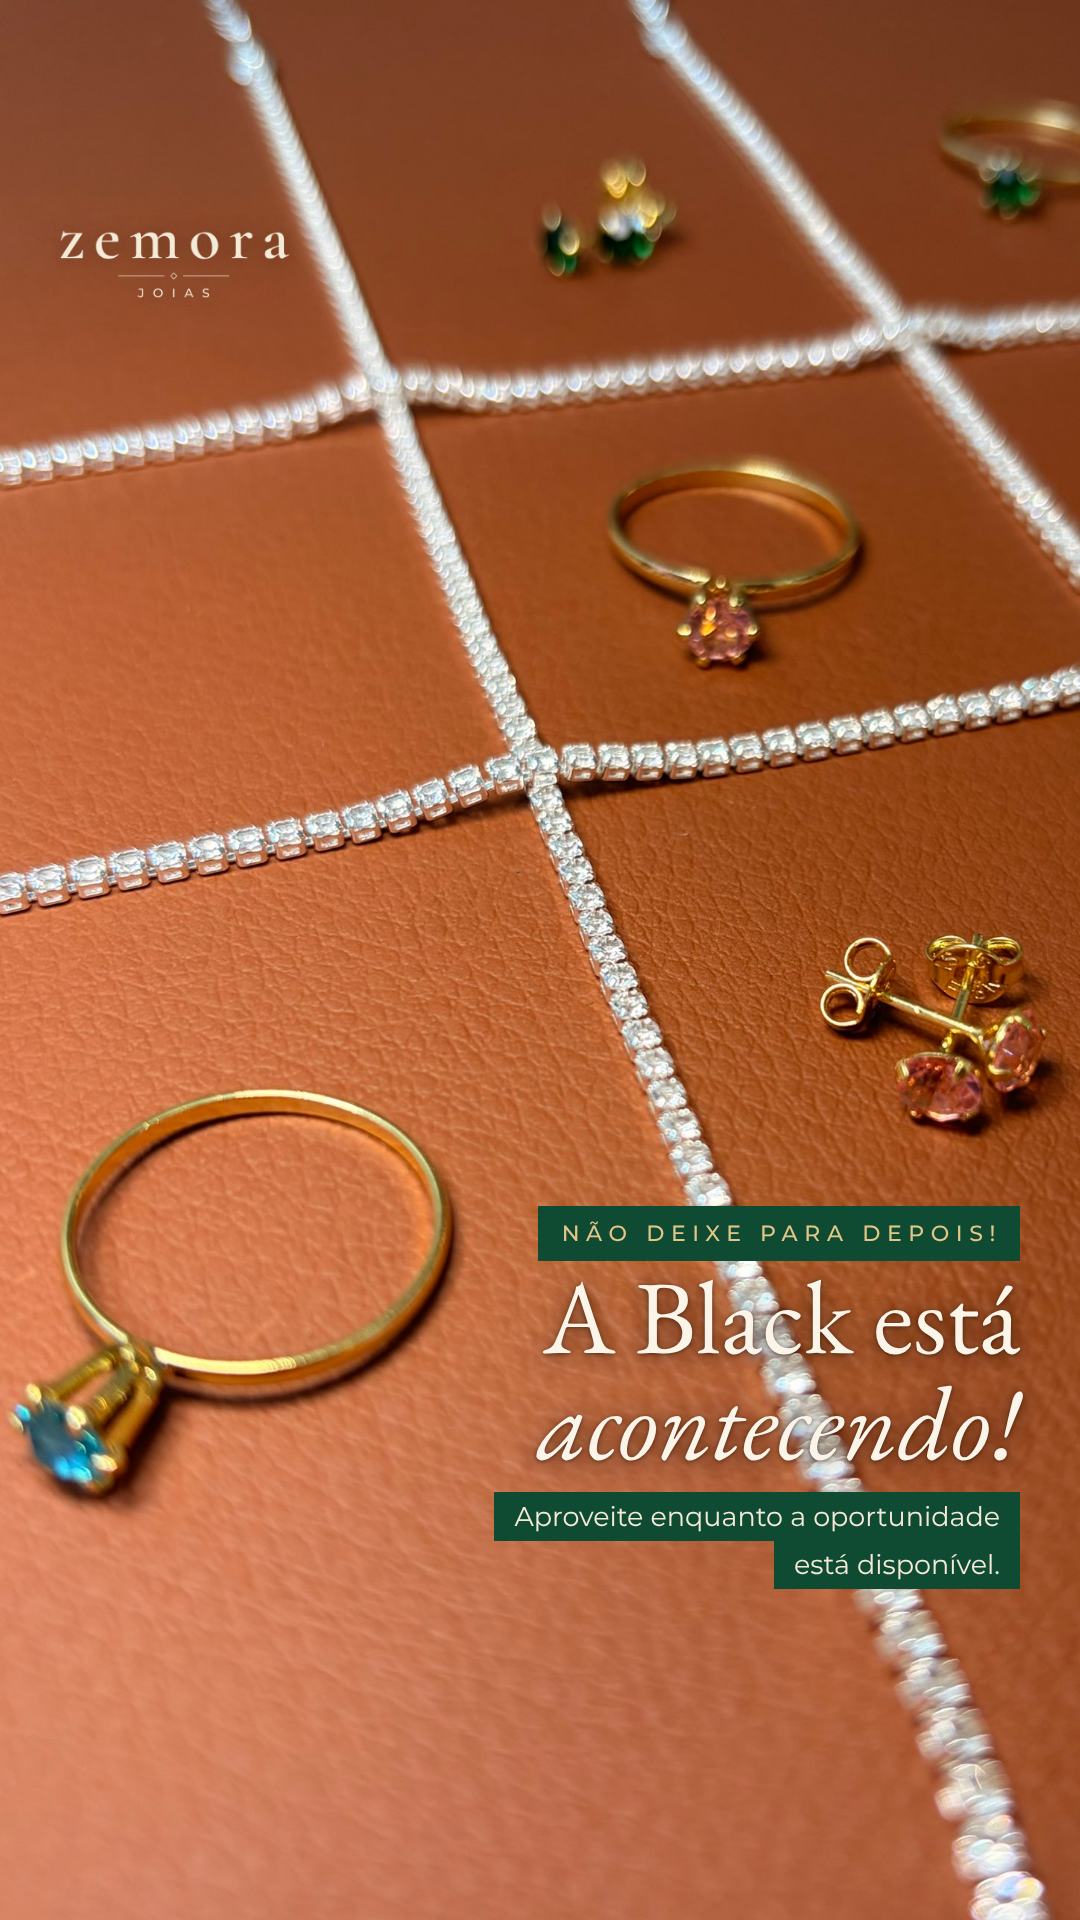
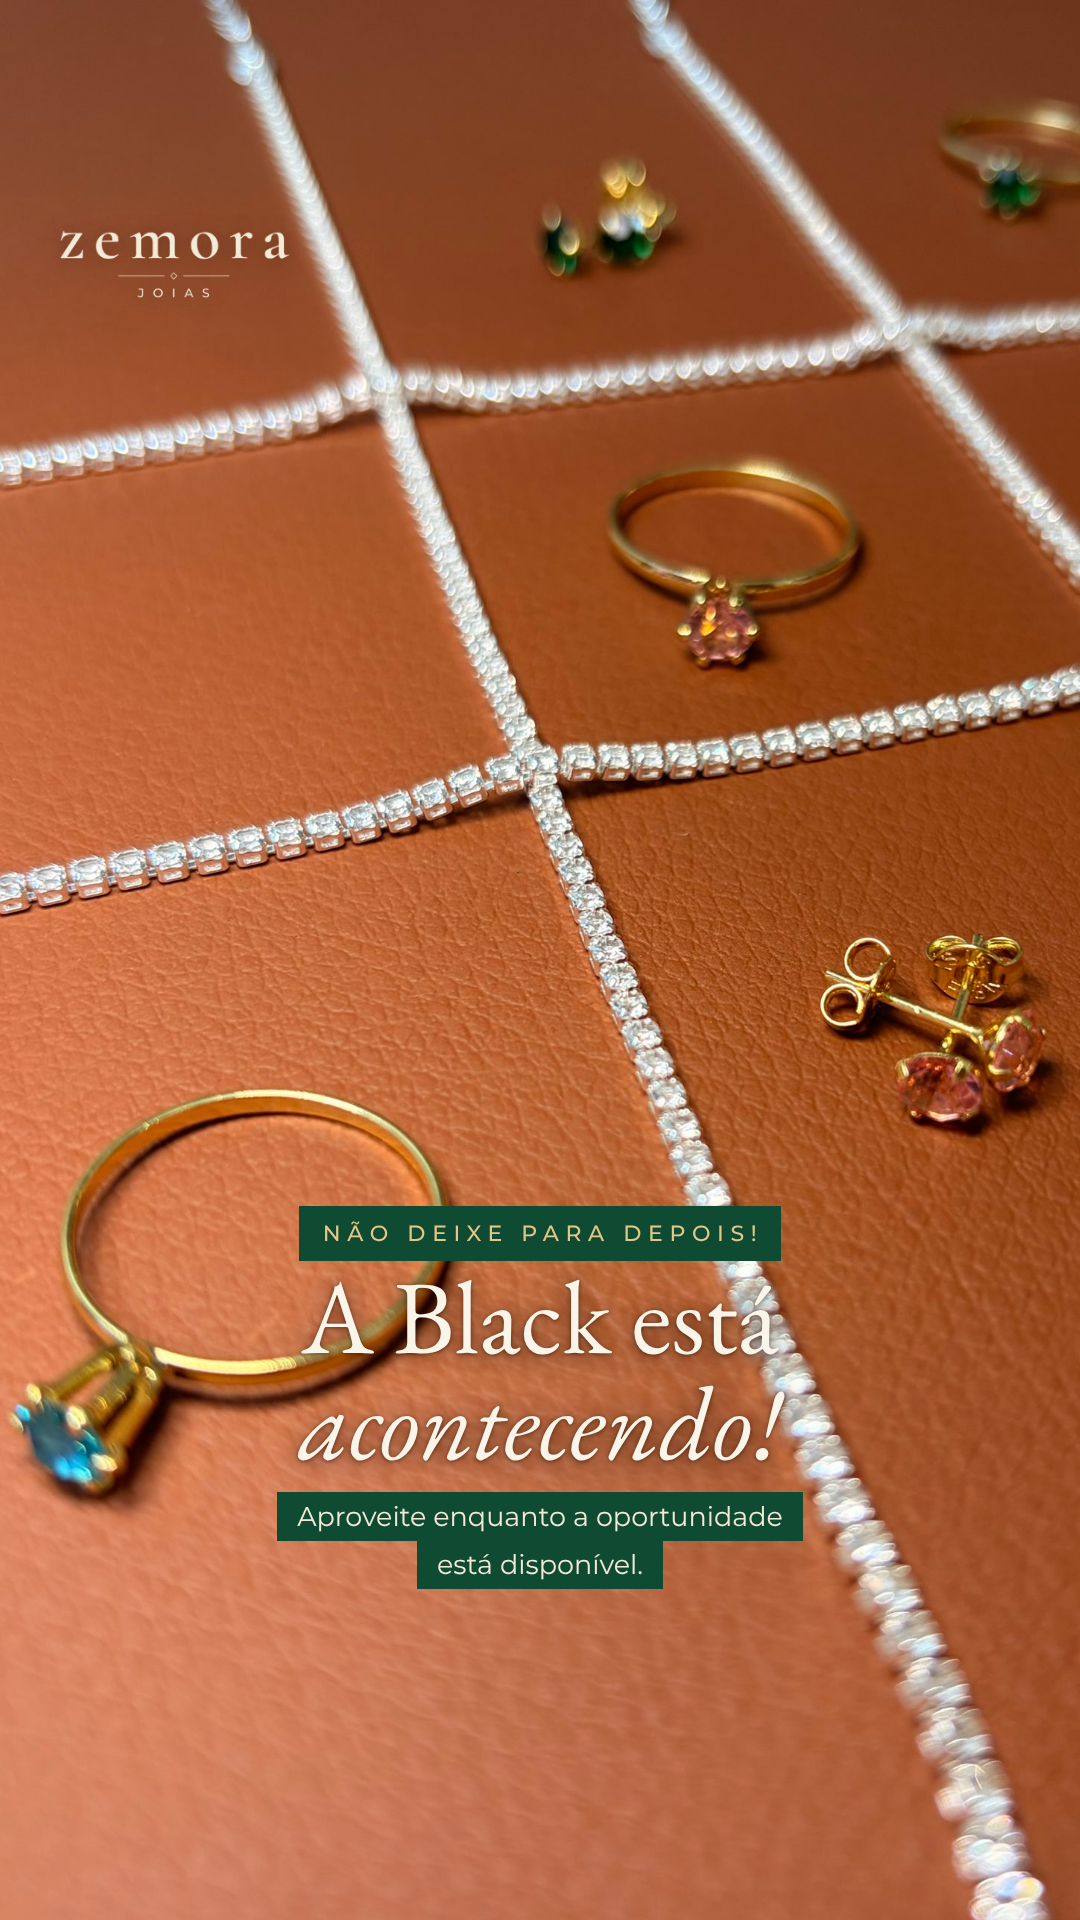
Card 'A Black está acontecendo!': frases centralizadas
Claude-Session: https://claude.ai/code/session_01Ds4o6DPNY229NefAqtX4RB

Changed region(s): [[0.2444, 0.625, 0.9472, 0.8438]]

diff --git a/cards/overlay.html b/cards/overlay.html
@@ -8,7 +8,7 @@ body{width:1080px;height:{{H}}px;overflow:hidden;background:#000}
 .photo img{width:100%;height:100%;object-fit:cover;object-position:{{POS}}}
 .logo{position:absolute;top:{{LOGOTOP}}px;left:{{LOGOLEFT}}px}
 .logo img{width:230px;filter:drop-shadow(0 2px 10px rgba(0,0,0,.35))}
-.content{position:absolute;left:300px;right:60px;bottom:{{BOTTOM}}px;text-align:right;display:flex;flex-direction:column;align-items:flex-end;gap:18px}
+.content{position:absolute;left:60px;right:60px;bottom:{{BOTTOM}}px;text-align:center;display:flex;flex-direction:column;align-items:center;gap:18px}
 .hl{background:#0f4a33;color:#f3ead8;display:inline;box-decoration-break:clone;-webkit-box-decoration-break:clone}
 .kick .hl{font:500 22px/1 Montserrat;letter-spacing:.3em;text-transform:uppercase;color:#e3c787;padding:14px 18px 14px 24px}
 h1{font:400 {{H1SIZE}}px/1.02 'EB Garamond';letter-spacing:-.3px;color:#fbf5e9;text-shadow:0 2px 22px rgba(40,15,5,.7),0 1px 4px rgba(40,15,5,.6)}
